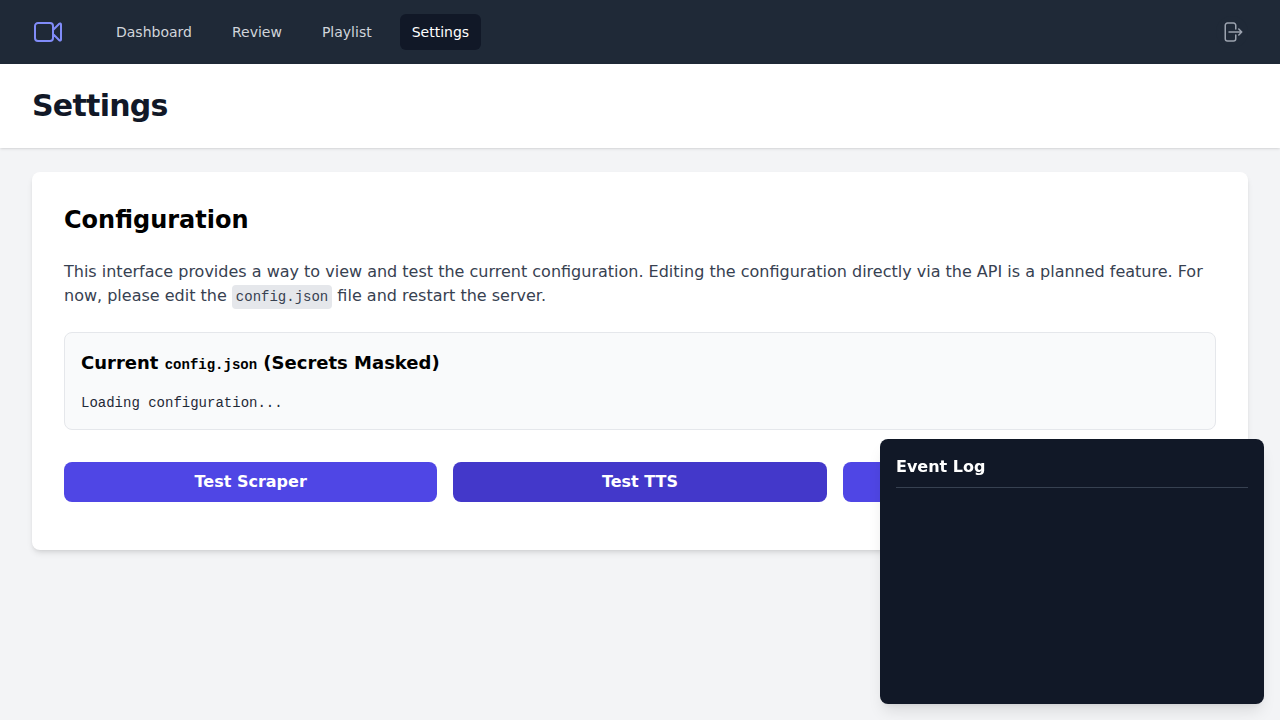
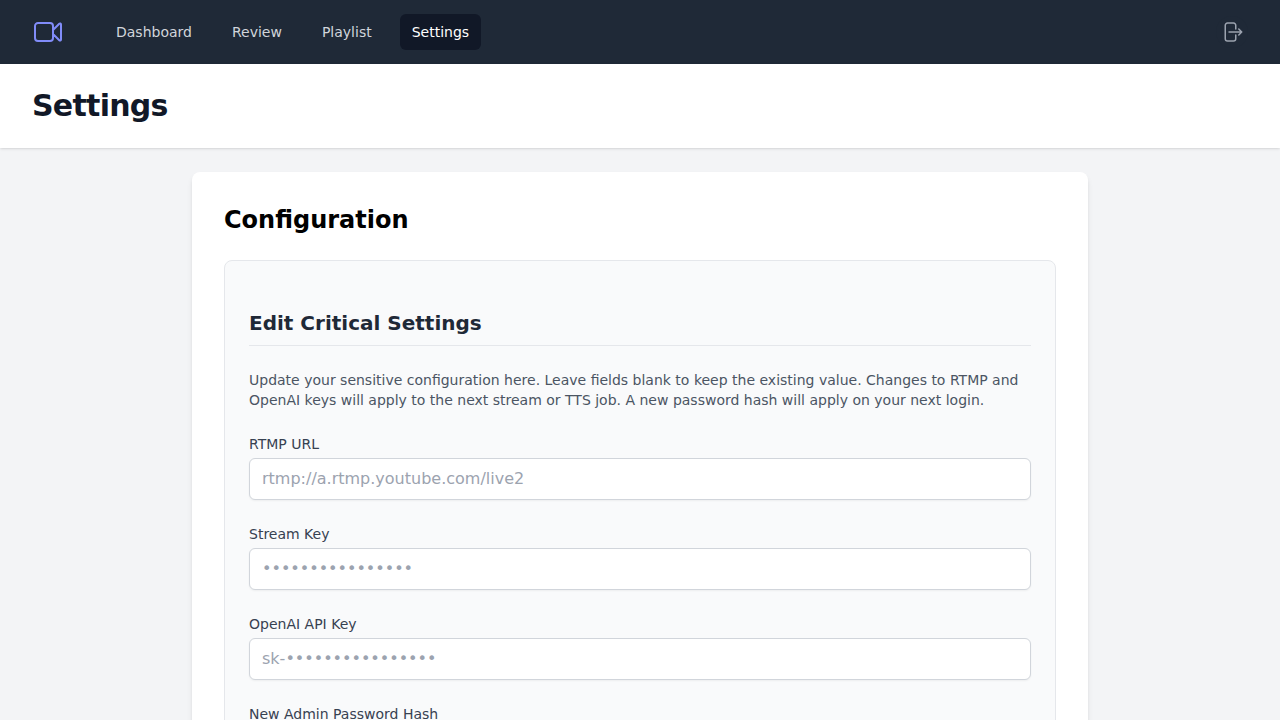
Fix: Resolve LangChain import error and fix runtime crashes
- Updated `app/tts_generator.py` to import `RecursiveCharacterTextSplitter` from `langchain_text_splitters`.
- Added `langchain-text-splitters` to `requirements.txt`.
- Fixed `NameError: 'Optional' is not defined` in `app/video_renderer.py` by adding explicit `typing` import.
- Fixed `AttributeError` in `app/web/server.py` by correcting the `manifest` object import.
- Added `tests/test_tts_generator.py` for regression testing.
- Updated `README.md` and included fresh screenshots for Login, Dashboard, and Settings pages.

diff --git a/app/video_renderer.py b/app/video_renderer.py
@@ -9,8 +9,8 @@ This module is responsible for:
 - Updating the manifest item with the paths to the generated clip and final video.
 """
 import logging
+import typing
 from pathlib import Path
-from typing import List
 
 from .config import app_config
 from .manifest import manifest
@@ -80,7 +80,7 @@ class VideoRenderer:
             logger.error(f"Failed to render clip for item {item_id}: {e}")
             return False
 
-    def _concatenate_clips(self, clip_paths: List[Path], final_video_path: Path) -> bool:
+    def _concatenate_clips(self, clip_paths: typing.List[Path], final_video_path: Path) -> bool:
         """
         Concatenates a list of video clips into a single video file.
         """
@@ -164,7 +164,7 @@ class VideoRenderer:
         """Renders a clip for a single manifest item."""
         return self._render_clip(item)
 
-    def create_final_video(self, items: List[ManifestItem]) -> Optional[Path]:
+    def create_final_video(self, items: typing.List[ManifestItem]) -> typing.Optional[Path]:
         """
         Creates the final video by concatenating clips from the given items.
         """

diff --git a/app/web/server.py b/app/web/server.py
@@ -17,7 +17,8 @@ from fastapi.staticfiles import StaticFiles
 from fastapi.templating import Jinja2Templates
 from sse_starlette.sse import EventSourceResponse
 
-from .. import config, manifest, metrics, security, streamer
+from .. import config, metrics, security, streamer
+from ..manifest import manifest
 from ..models import ItemState, ManifestItem, UpdateConfigRequest
 from ..utils import format_sse, OUTPUT_DIR
 

diff --git a/README.md b/README.md
@@ -16,7 +16,7 @@ It features a web-based dashboard for monitoring and control, a human approval w
 - **Dockerized**: Runs in a single, self-contained Docker container, compatible with both `x86_64` and `ARM64` architectures.
 - **Observable**: Provides metrics via a Prometheus endpoint and real-time logs in the UI.
 
-## Screenshots
+## Screenshots (Updated)
 
 | Login Page | Dashboard |
 | :---: | :---: |
